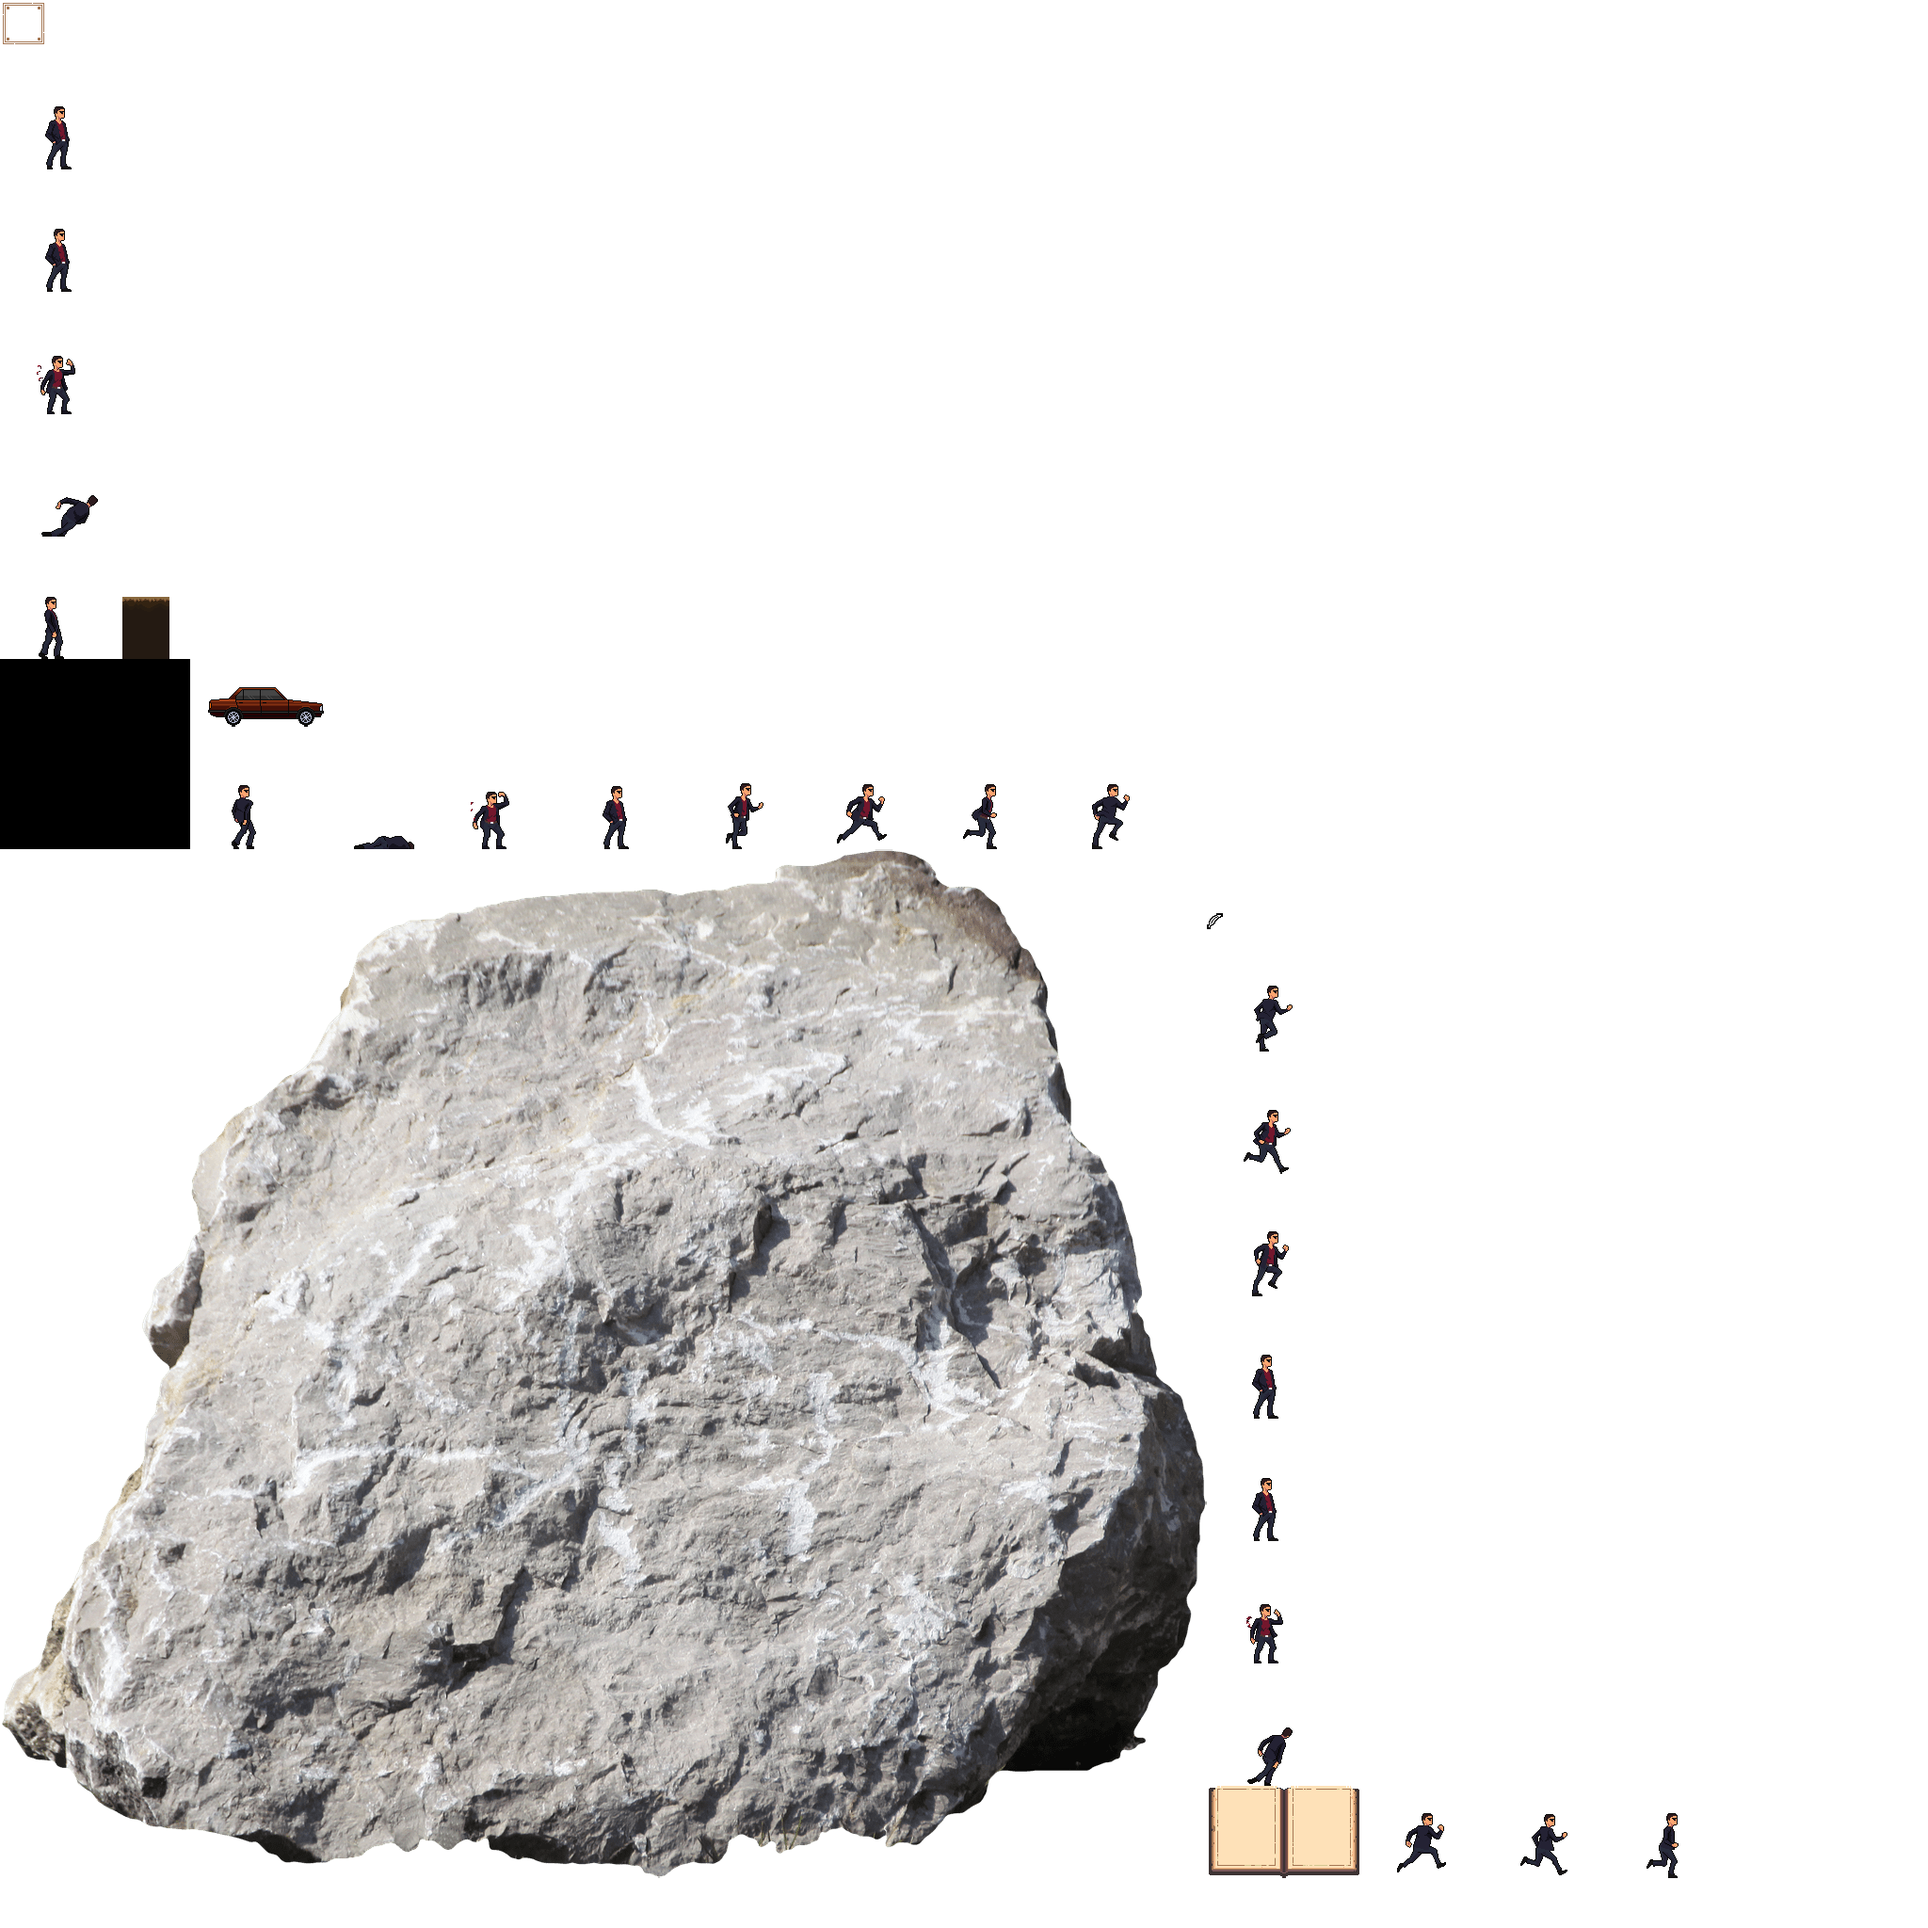
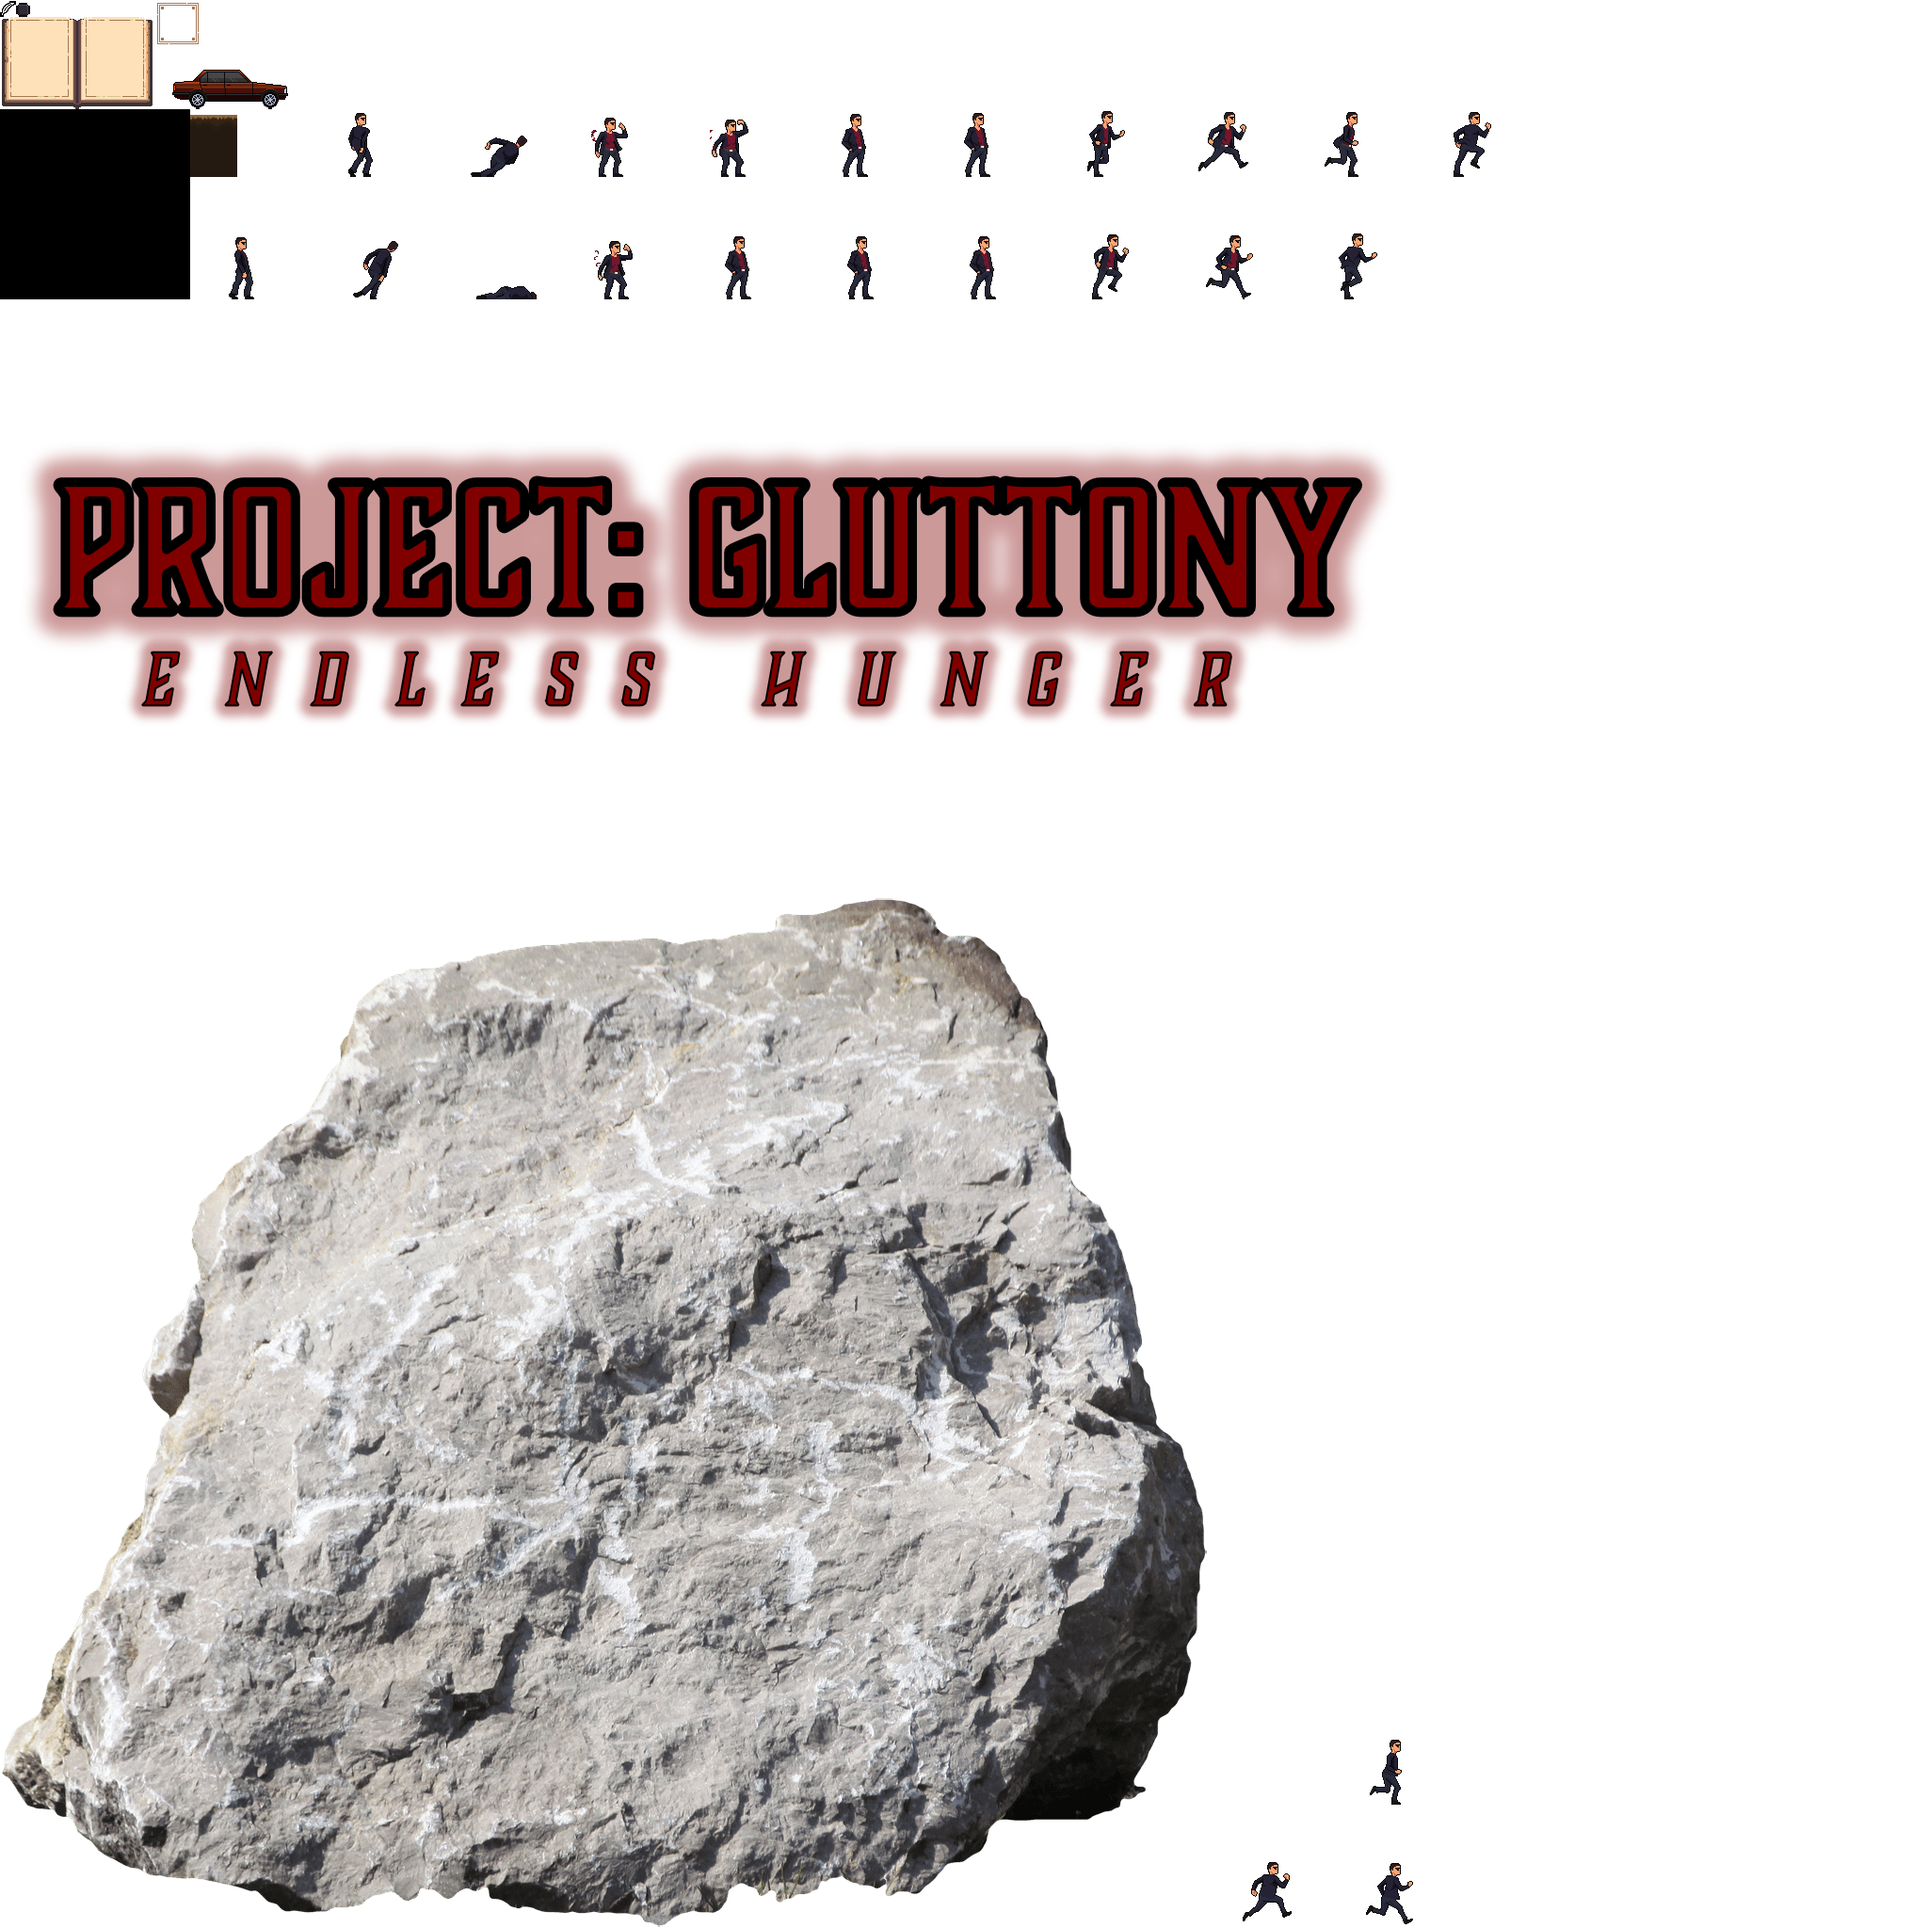
kjshgkhgsdhsg

diff --git a/core/src/main/java/com/github/glutton/screens/MainMenuScreen.java b/core/src/main/java/com/github/glutton/screens/MainMenuScreen.java
@@ -2,35 +2,21 @@ package com.github.glutton.screens;
 
 import com.badlogic.gdx.Gdx;
 import com.badlogic.gdx.Screen;
-import com.badlogic.gdx.graphics.Color;
 import com.badlogic.gdx.graphics.Cursor;
 import com.badlogic.gdx.graphics.GL20;
-import com.badlogic.gdx.graphics.Pixmap;
-import com.badlogic.gdx.graphics.Texture;
-import com.badlogic.gdx.graphics.g2d.BitmapFont;
-import com.badlogic.gdx.graphics.g2d.TextureRegion;
-import com.badlogic.gdx.graphics.g2d.freetype.FreeTypeFontGenerator;
 import com.badlogic.gdx.scenes.scene2d.Actor;
 import com.badlogic.gdx.scenes.scene2d.InputEvent;
 import com.badlogic.gdx.scenes.scene2d.Stage;
-import com.badlogic.gdx.scenes.scene2d.ui.Image;
-import com.badlogic.gdx.scenes.scene2d.ui.Label;
-import com.badlogic.gdx.scenes.scene2d.ui.Table;
-import com.badlogic.gdx.scenes.scene2d.ui.TextButton;
 import com.badlogic.gdx.scenes.scene2d.utils.ClickListener;
-import com.badlogic.gdx.scenes.scene2d.utils.TextureRegionDrawable;
 import com.badlogic.gdx.utils.viewport.ScreenViewport;
 import com.github.glutton.GluttonGame;
+import games.rednblack.editor.renderer.SceneLoader;
 
 public class MainMenuScreen implements Screen {
 
 	private final GluttonGame game;
+	private SceneLoader sceneLoader;
 	private Stage stage;
-	private Texture bgTexture;
-
-	private BitmapFont titleFont;
-	private BitmapFont buttonFont;
-	private Texture buttonBgTexture;
 
 	public MainMenuScreen(GluttonGame game) {
 		this.game = game;
@@ -39,78 +25,63 @@ public class MainMenuScreen implements Screen {
 	@Override
 	public void show() {
 		Gdx.graphics.setSystemCursor(Cursor.SystemCursor.Arrow);
+
+		// Initialize HyperLap2D SceneLoader and load the MainMenu scene
+		sceneLoader = new SceneLoader();
+		com.badlogic.gdx.scenes.scene2d.Group rootGroup = sceneLoader.loadScene("MainMenu");
+		
+		// Create stage using screen viewport and add the HyperLap2D root actor group
 		stage = new Stage(new ScreenViewport());
+		stage.addActor(rootGroup);
 		Gdx.input.setInputProcessor(stage);
 
 		game.playMenuBgm();
 
-		if (Gdx.files.internal("UI/Menu/MenuBG.png").exists()) {
-			bgTexture = new Texture(Gdx.files.internal("UI/Menu/MenuBG.png"));
-		} else if (Gdx.files.internal("UI/Menu/MenuBG.jpg").exists()) {
-			bgTexture = new Texture(Gdx.files.internal("UI/Menu/MenuBG.jpg"));
+		// Wire up HyperLap2D UI Buttons by their itemIdentifiers
+		Actor playBtn = rootGroup.findActor("PlayButton");
+		if (playBtn != null) {
+			addHandCursor(playBtn);
+			playBtn.addListener(new ClickListener() {
+				@Override
+				public void clicked(InputEvent event, float x, float y) {
+					Gdx.graphics.setSystemCursor(Cursor.SystemCursor.Arrow);
+					game.setScreen(new LevelSelectScreen(game));
+				}
+			});
 		}
 
-		if (bgTexture != null) {
-			Image bgImage = new Image(bgTexture);
-			bgImage.setFillParent(true);
-			stage.addActor(bgImage);
+		Actor settingsBtn = rootGroup.findActor("SettingsButton");
+		if (settingsBtn != null) {
+			addHandCursor(settingsBtn);
+			settingsBtn.addListener(new ClickListener() {
+				@Override
+				public void clicked(InputEvent event, float x, float y) {
+					// TODO: Add Settings menu logic or dialog here
+				}
+			});
 		}
 
-		titleFont = loadCustomFont("UI/Fonts/SwingingWake-Regular.ttf", 90, 2);
-		buttonFont = loadCustomFont("UI/Fonts/rat_typewriter.ttf", 24, 1);
+		Actor accountBtn = rootGroup.findActor("AccountButton");
+		if (accountBtn != null) {
+			addHandCursor(accountBtn);
+			accountBtn.addListener(new ClickListener() {
+				@Override
+				public void clicked(InputEvent event, float x, float y) {
+					// TODO: Add Account/Login modal popup logic here
+				}
+			});
+		}
 
-		Label.LabelStyle titleStyle = new Label.LabelStyle(titleFont, new Color(158f / 255f, 43f / 255f, 5f / 255f, 1f));
-
-		Pixmap pixmap = new Pixmap(1, 1, Pixmap.Format.RGBA8888);
-		pixmap.setColor(Color.BLACK);
-		pixmap.fill();
-		buttonBgTexture = new Texture(pixmap);
-		pixmap.dispose();
-
-		TextButton.TextButtonStyle buttonStyle = new TextButton.TextButtonStyle();
-		buttonStyle.font = buttonFont;
-		buttonStyle.fontColor = Color.WHITE;
-		buttonStyle.up = new TextureRegionDrawable(new TextureRegion(buttonBgTexture));
-
-		Table table = new Table();
-		table.setFillParent(true);
-		stage.addActor(table);
-
-		Label titleLabel = new Label("GLUTTON", titleStyle);
-		table.add(titleLabel).padBottom(50).row();
-
-		// Play Button
-		TextButton playButton = new TextButton("PLAY", buttonStyle);
-		addHandCursor(playButton);
-		playButton.addListener(new ClickListener() {
-			@Override
-			public void clicked(InputEvent event, float x, float y) {
-				Gdx.graphics.setSystemCursor(Cursor.SystemCursor.Arrow);
-				game.setScreen(new LevelSelectScreen(game));
-			}
-		});
-		table.add(playButton).width(240).height(50).padBottom(15).row();
-
-		// Settings Button
-		TextButton settingsButton = new TextButton("SETTINGS", buttonStyle);
-		addHandCursor(settingsButton);
-		settingsButton.addListener(new ClickListener() {
-			@Override
-			public void clicked(InputEvent event, float x, float y) {
-			}
-		});
-		table.add(settingsButton).width(240).height(50).padBottom(15).row();
-
-		// Exit Button
-		TextButton exitButton = new TextButton("EXIT", buttonStyle);
-		addHandCursor(exitButton);
-		exitButton.addListener(new ClickListener() {
-			@Override
-			public void clicked(InputEvent event, float x, float y) {
-				Gdx.app.exit();
-			}
-		});
-		table.add(exitButton).width(240).height(50).padBottom(15).row();
+		Actor exitBtn = rootGroup.findActor("ExitButton");
+		if (exitBtn != null) {
+			addHandCursor(exitBtn);
+			exitBtn.addListener(new ClickListener() {
+				@Override
+				public void clicked(InputEvent event, float x, float y) {
+					Gdx.app.exit();
+				}
+			});
+		}
 	}
 
 	private void addHandCursor(Actor actor) {
@@ -125,19 +96,6 @@ public class MainMenuScreen implements Screen {
 				Gdx.graphics.setSystemCursor(Cursor.SystemCursor.Arrow);
 			}
 		});
-	}
-
-	private BitmapFont loadCustomFont(String path, int size, int spaceX) {
-		if (!Gdx.files.internal(path).exists()) {
-			return new BitmapFont();
-		}
-		FreeTypeFontGenerator generator = new FreeTypeFontGenerator(Gdx.files.internal(path));
-		FreeTypeFontGenerator.FreeTypeFontParameter parameter = new FreeTypeFontGenerator.FreeTypeFontParameter();
-		parameter.size = size;
-		parameter.spaceX = spaceX;
-		BitmapFont font = generator.generateFont(parameter);
-		generator.dispose();
-		return font;
 	}
 
 	@Override
@@ -169,18 +127,8 @@ public class MainMenuScreen implements Screen {
 
 	@Override
 	public void dispose() {
-		stage.dispose();
-		if (bgTexture != null) {
-			bgTexture.dispose();
-		}
-		if (buttonBgTexture != null) {
-			buttonBgTexture.dispose();
-		}
-		if (titleFont != null) {
-			titleFont.dispose();
-		}
-		if (buttonFont != null) {
-			buttonFont.dispose();
+		if (stage != null) {
+			stage.dispose();
 		}
 	}
 }
